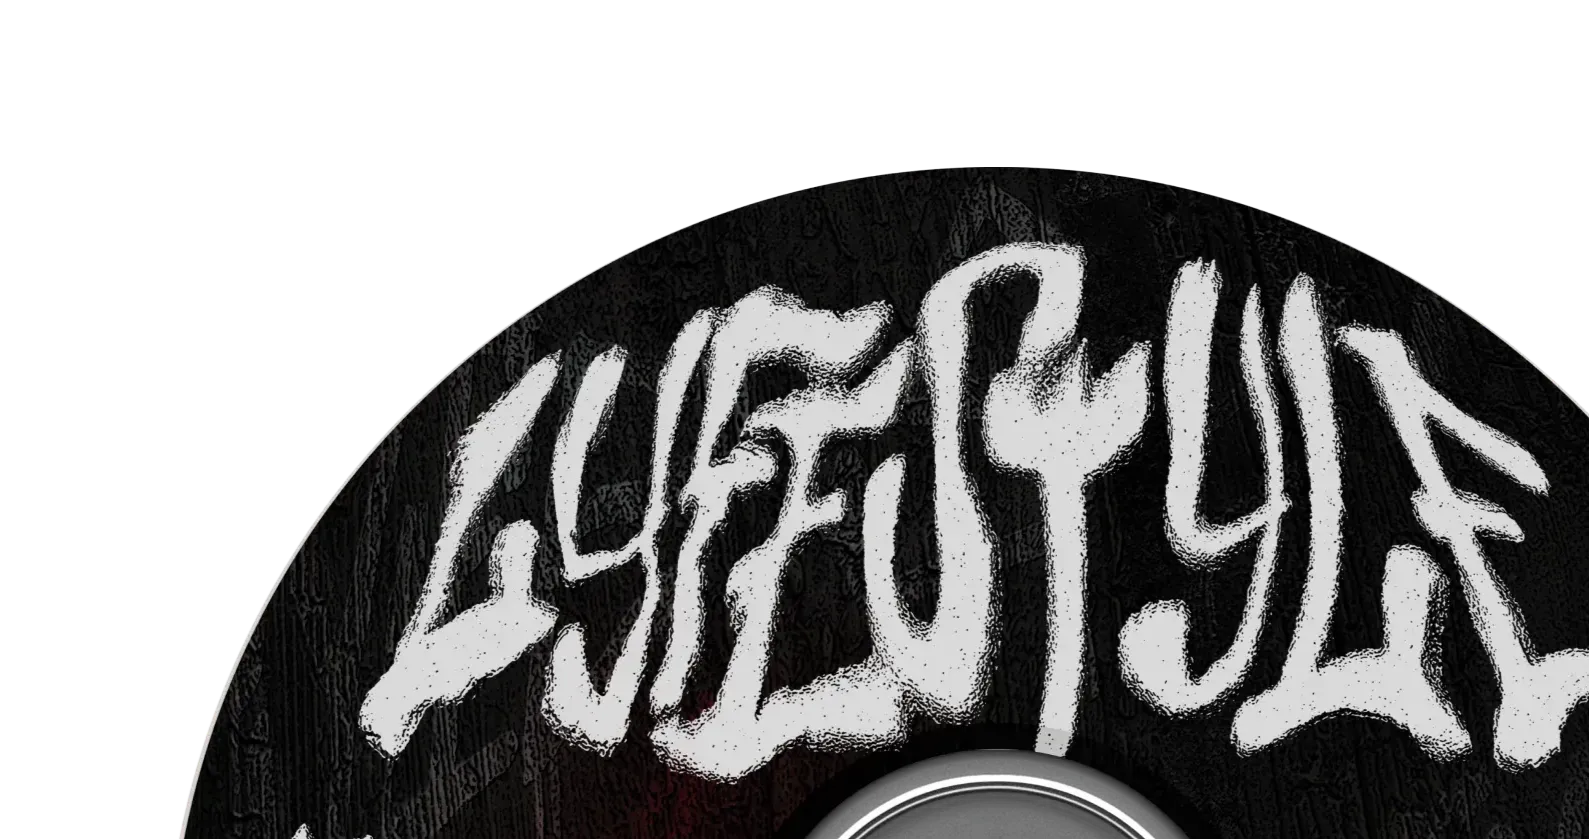
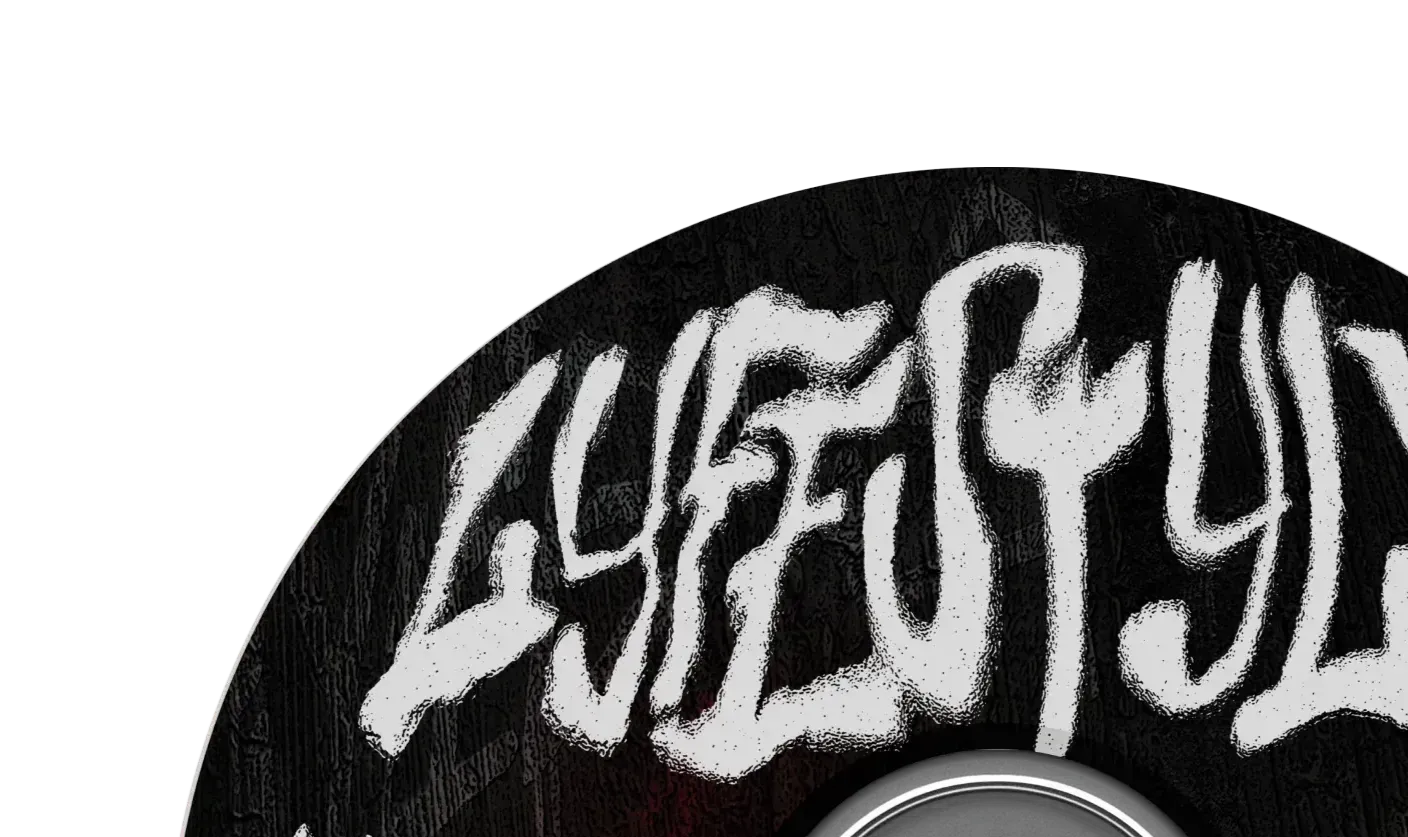
asdasd

diff --git a/Projekta_darbs/templates/about.html b/Projekta_darbs/templates/about.html
@@ -5,14 +5,14 @@
      {% extends "layout.html" %}  
      {% block content %}
         <div class="about">
-          <h1>Albumi:</h1>
+          <h1 style="position: absolute; left: 300px; top: 50px; font-size:65px; ">Albumi:</h1>
       
           <ul>
             {% for x in names %}
                 <li>{{ x }}</li>
             {% endfor %}
           </ul>
-          <img src="{{ url_for('static', filename='imagis/YeatDisc.webp') }}"
+          <img src="static\imagis\YeatAfter.webp" style="position: absolute; left: 500px; top: 120px;">
         </div>
       {% endblock %}
   </body>

diff --git a/Projekta_darbs/templates/Albumi.html b/Projekta_darbs/templates/Albumi.html
@@ -85,7 +85,7 @@
                 <li>{{ x }}</li>
             {% endfor %}
           </ul>
-          <img src="static\imagis\YeatDisc.webp" style="position: absolute; left: 500px; top: 50px;">
+          <img src="static\imagis\YeatDisc.webp" style="position: absolute; left: 500px; top: 120px;">
         </div>
       {% endblock %}
   </body>
